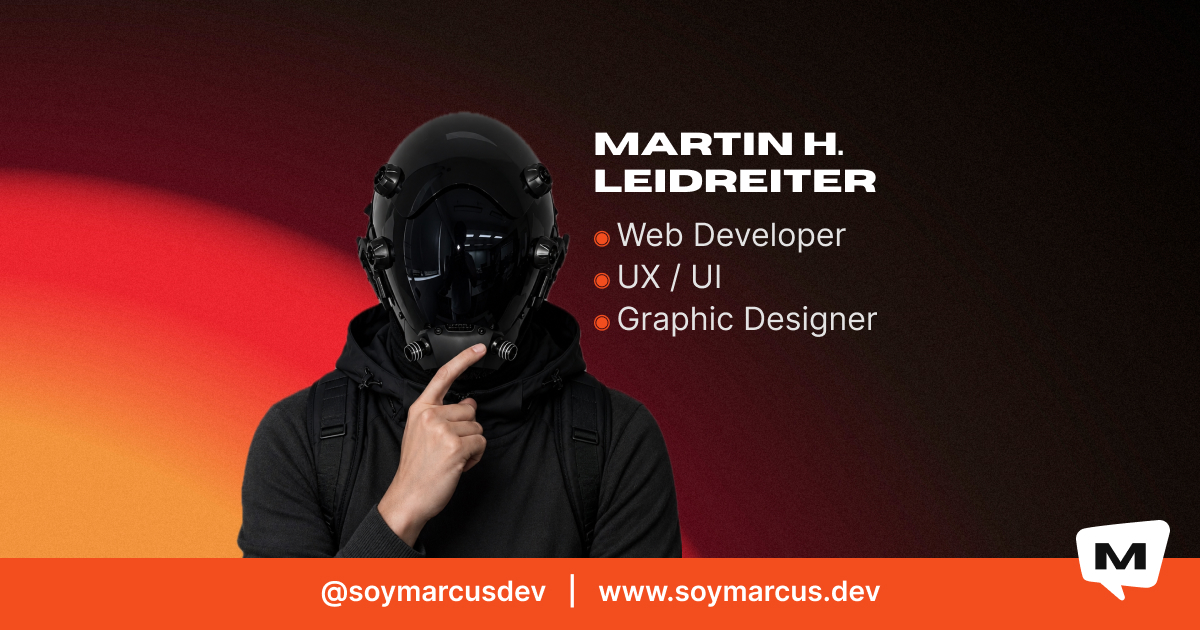
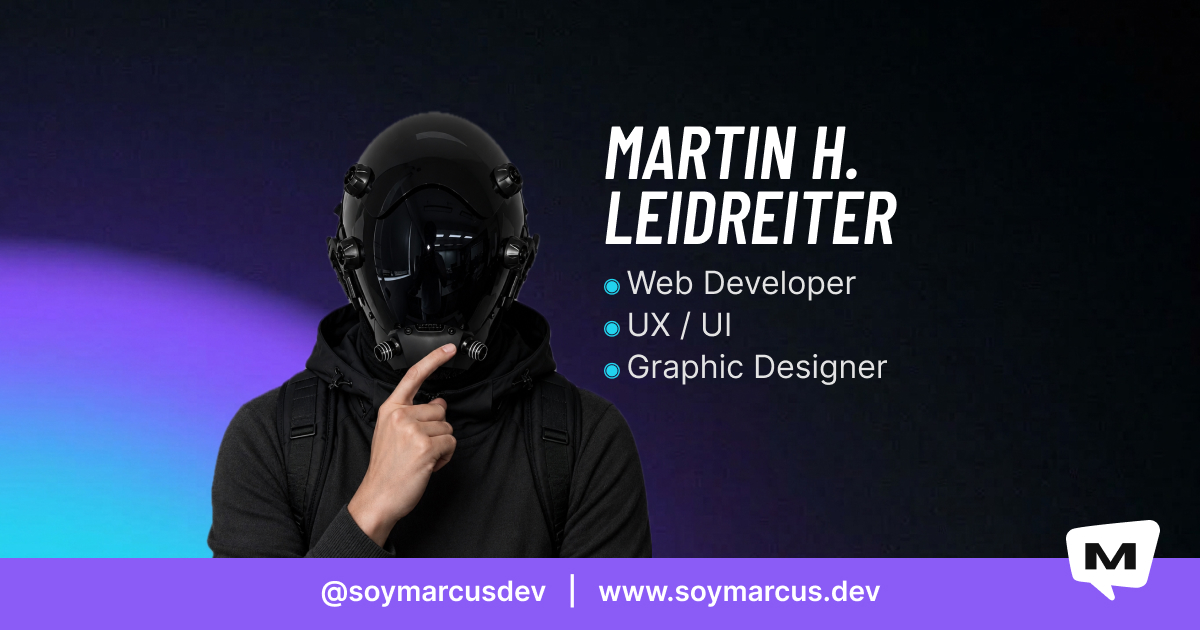
feat(mobile): agregar titulo 'Sobre mí' antes del sidebar en movil, optimizar preview.jpg

diff --git a/components/home/HomeClient.tsx b/components/home/HomeClient.tsx
@@ -69,6 +69,7 @@ export default function HomeClient() {
         <Paquetes />
         <UltimosPosts />
         <div className={styles["sidebar-movil"]}>
+          <h2 className={styles["titulo-sobre-mi"]}>Sobre mí</h2>
           <SidebarBody />
         </div>
         <Contacto />

diff --git a/styles/scss/layout/_info.scss b/styles/scss/layout/_info.scss
@@ -8,6 +8,13 @@
     gap: 1rem;
 }
 
+/* Título sobre mí (móvil) */
+.titulo-sobre-mi {
+    color: v.$blanco;
+    margin: 3rem 1rem;
+    text-align: center;
+}
+
 /* información */
 
 .informacion {
